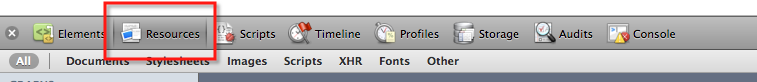
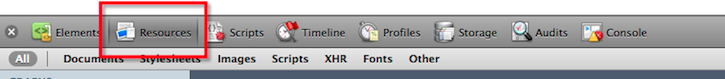
Fixes #124 Add width and height to images, resize images to 725px wide.
http://code.google.com/p/html5rocks/issues/detail?id=124

diff --git a/www.html5rocks.com/content/tutorials/developertools/part1/index.html b/www.html5rocks.com/content/tutorials/developertools/part1/index.html
@@ -45,42 +45,42 @@ If your instance of Developer Tools does not quite match the screenshots found i
   Overall, there are eight main groups of tools available view Developer Tools, and the capabilities are being extended with every release.  Chrome 5 now offers Elements, Resources, Scripts, Timeline, Profiles, Storage, Audits, and Console.
   </p>
   <h3 id="toc-overview-elements">Elements</h3>
-  <img src="/static/images/screenshots/developertools/part1/index.001.png">
+  <img src="/static/images/screenshots/developertools/part1/index.001.png" width="725" height="73">
   <p>
     The Elements tool allows you to see the web page as the browser sees it.  That is, using the Elements tool, you can see the raw HTML, raw CSS styles, the Document Object Model, and manipulate either in real time.  <a href="#toc-elements">Read more...</a>
   </p>
   <h3 id="toc-overview-resources">Resources</h3>
-  <img src="/static/images/screenshots/developertools/part1/index.002.png">
+  <img src="/static/images/screenshots/developertools/part1/index.002.png" width="725" height="79">
   <p>
     Use the Resources tool to learn what components your web page or application is requesting from web servers, how long these requests take, and how much bandwidth is required.  You can also view the HTTP request and response headers for each of your resources.  The Resources tool is perfect for helping you speed up page load times.  <a href="#toc-resources">Read more...</a>
   </p>
   <h3 id="toc-overview-scripts">Scripts</h3>
-  <img src="/static/images/screenshots/developertools/part1/index.003.png">
+  <img src="/static/images/screenshots/developertools/part1/index.003.png" width="725" height="70">
   <p>
     To peer inside the JavaScript for a page, you will use the Scripts tool.  Here you can find a list of scripts required by the page plus a full featured script debugger.  You can even change the JavaScript on the fly!  <span style="font-style: italic">Read more in Part Two, coming soon.</span>
   </p>
   <h3 id="toc-overview-timeline">Timeline</h3>
-  <img src="/static/images/screenshots/developertools/part1/index.004.png">
+  <img src="/static/images/screenshots/developertools/part1/index.004.png" width="725" height="68">
   <p>
     For advanced timing and speed analysis, the Timeline tool offers in-depth visibility into the various Chrome behind-the-scenes activities.  You can learn how long the browser takes to handle DOM events, rendering page layouts, and paint the window.  <span style="font-style: italic">Read more in Part Two, coming soon.</span>
   </p>
   <h3 id="toc-overview-profiles">Profiles</h3>
-  <img src="/static/images/screenshots/developertools/part1/index.005.png">
+  <img src="/static/images/screenshots/developertools/part1/index.005.png" width="725" height="72">
   <p>
     The Profiles tool helps you capture and analyze the performance of JavaScript scripts.  For example, you can learn which functions take the most time to execute and zero in on exactly where to optimize.   <span style="font-style: italic">Read more in Part Two, coming soon.</span>
   </p>
   <h3 id="toc-overview-storage">Storage</h3>
-  <img src="/static/images/screenshots/developertools/part1/index.006.png">
+  <img src="/static/images/screenshots/developertools/part1/index.006.png" width="725" height="73">
   <p>
     Modern web applications require more persistence than simply cookies, and the Storage tool helps you track, query, and debug local browser storage.  This tool can display and query data stored in local databases, local storage, session storage, and cookies.  <span style="font-style: italic">Read more in Part Two, coming soon.</span>
   </p>
   <h3 id="toc-overview-audit">Audit</h3>
-  <img src="/static/images/screenshots/developertools/part1/index.007.png">
+  <img src="/static/images/screenshots/developertools/part1/index.007.png" width="725" height="68">
   <p>
     The Audit tool is like having your own web optimization consultant sitting next to you.  This tool can analyze a page as it loads and provide suggestions and optimizations for decreasing page load time and increase perceived (and real) responsiveness.  <span style="font-style: italic">Read more in Part Two, coming soon.</span>
   </p>
   <h3 id="toc-overview-console">Console</h3>
-  <img src="/static/images/screenshots/developertools/part1/index.008.png">
+  <img src="/static/images/screenshots/developertools/part1/index.008.png" width="725" height="76">
   <p>
     Last but definitely not least, the Developer Tools offers a full featured Console.  From the Console, you can enter arbitrary JavaScript and programmatically interact with your page.  <span style="font-style: italic">Read more in Part Two, coming soon.</span>
   </p>
@@ -99,13 +99,13 @@ For any operating system, you can simply right-click on any element in the page 
 To see this in action, visit http://www.google.com in Chrome Browser.  Right click on the Google logo, and you will see the following options:
 </p>
 
-<img src="/static/images/screenshots/developertools/part1/index.009.png">
+<img src="/static/images/screenshots/developertools/part1/index.009.png" width="725" height="376">
 
 <p>
 Selecting "Inspect Element" will bring up the Developer Tools, which should look like the following:
 </p>
 
-<img src="/static/images/screenshots/developertools/part1/index.010.png">
+<img src="/static/images/screenshots/developertools/part1/index.010.png" width="725" height="301">
 
 <p>
 Notice how the Developer Tools opened inside of the Elements tab and automatically drilled down to, and highlighted, the &lt;img&gt; tag for the Google logo.  This is very useful when you are curious which HTML generated a particular page element.
@@ -128,13 +128,13 @@ Finally, you can choose to open the tools from the main browser menu.
 On a Mac, and from the main application menu bar, select View, Developer, Developer Tools.
 </p>
 
-<img src="/static/images/screenshots/developertools/part1/index.011.png">
+<img src="/static/images/screenshots/developertools/part1/index.011.png" width="725" height="334">
 
 <p>
 On a Windows PC, you should use the Page menu at the top right, and select Developer, Developer Tools.
 </p>
 
-<img src="/static/images/screenshots/developertools/part1/index.012.png">
+<img src="/static/images/screenshots/developertools/part1/index.012.png" width="725" height="475">
 
 <p>
 Now that you have the Developer Tools open and ready, let's begin by exploring the elements on Google's homepage.
@@ -142,7 +142,7 @@ Now that you have the Developer Tools open and ready, let's begin by exploring t
 
 <h2 id="toc-elements">Elements</h2>
 
-<img src="/static/images/screenshots/developertools/part1/index.013.png">
+<img src="/static/images/screenshots/developertools/part1/index.013.png" width="725" height="76">
 
 <p>
 The first tab in the Developer Tools is Elements.  This is your window into the structure of the web page, presented as your browser sees it.
@@ -162,7 +162,7 @@ The Elements tab is sometimes a better way to "view source" for a page.  Inside 
 For example, the following is the output from the "view source" of the Google homepage.
 </p>
 
-<img src="/static/images/screenshots/developertools/part1/index.014.png">
+<img src="/static/images/screenshots/developertools/part1/index.014.png" width="725" height="494">
 
 <p>
 It's hard to read the above source because it is optimized and minified.  The format is good for clients and servers but difficult for developers!
@@ -172,7 +172,7 @@ It's hard to read the above source because it is optimized and minified.  The fo
 Instead, when you want to read the source of a page, use the Elements Tab to view a pretty-printed, syntax highlighted element hierarchy.
 </p>
 
-<img src="/static/images/screenshots/developertools/part1/index.015.png">
+<img src="/static/images/screenshots/developertools/part1/index.015.png" width="725" height="395">
 
 <p>
 The Elements tab also allows you to browse, interact, and sometimes even change the Styles, Metrics, Properties, and Event Listeners for any element on the page.
@@ -189,7 +189,7 @@ styling rule the browser is applying to the element helps you debug such an issu
 Clicking on any element in the Elements tab will display all the styles attached to that element.
 </p>
 
-<img src="/static/images/screenshots/developertools/part1/index.016.png">
+<img src="/static/images/screenshots/developertools/part1/index.016.png" width="725" height="229">
 
 <p>
 You'll see in the screenshot above, that we're able to tell all the style attributes that are being applied.  For example, the padding comes directly from the &lt;img&gt; element's style attribute.  The width and height, however, come from their respective native attributes.  Interestingly, you can tell there are styles also inherited from the &gt;center&lt; tag, the &gt;body&lt; tag, and others.
@@ -199,7 +199,7 @@ You'll see in the screenshot above, that we're able to tell all the style attrib
 While it's great to see the individual styles and where they come from, it's also very useful to see the final set of styles after it is computed and applied to the element.  You can see the final product by selecting the Computed Style menu, as shown in the screenshot below.
 </p>
 
-<img src="/static/images/screenshots/developertools/part1/index.017.png">
+<img src="/static/images/screenshots/developertools/part1/index.017.png" width="725" height="227">
 
 <p>
 Next, we'll take a brief look at the other features provided by the Elements Tab.  We'll cover the following in more detail in future articles.
@@ -211,7 +211,7 @@ Next, we'll take a brief look at the other features provided by the Elements Tab
 You can see the box model as it is applied to the selected element by selecting the Metrics menu:
 </p>
 
-<img src="/static/images/screenshots/developertools/part1/index.018.png">
+<img src="/static/images/screenshots/developertools/part1/index.018.png" width="725" height="245">
 
 <h3 id="toc-elements-element-properties">Element Properties</h3>
 
@@ -219,7 +219,7 @@ You can see the box model as it is applied to the selected element by selecting 
 You can see all of the properties of the element, as JavaScript and the DOM would see it, by selecting the Properties menu:
 </p>
 
-<img src="/static/images/screenshots/developertools/part1/index.019.png">
+<img src="/static/images/screenshots/developertools/part1/index.019.png" width="725" height="241">
 
 <h3 id="toc-elements-event-listeners">Event Listeners</h3>
 
@@ -227,7 +227,7 @@ You can see all of the properties of the element, as JavaScript and the DOM woul
 And finally, you can even see the event listeners attached to, or that bubble through, the element via the Event Listeners menu:
 </p>
 
-<img src="/static/images/screenshots/developertools/part1/index.020.png">
+<img src="/static/images/screenshots/developertools/part1/index.020.png" width="725" height="218">
 
 <h3 id="toc-elements-summary">Summary</h3>
 
@@ -261,7 +261,7 @@ The Resources Tab in Developer Tools is your window into the communication betwe
 Ironically, running the Resources Tab affects page load performance, so it is disabled by default.  The first time you access the functionality, you will need to enable it for the page you are viewing.
 </p>
 
-<img src="/static/images/screenshots/developertools/part1/index.021.png">
+<img src="/static/images/screenshots/developertools/part1/index.021.png" width="725" height="322">
 
 <p>
 I recommend you leave the default "Only enable for this session" selected, as you do not want to needlessly incur the small performance penalty.  Once you click "Enable resource tracking", the page will reload, and the Developer Tools will monitor and display the resources sent from the server.
@@ -271,7 +271,7 @@ I recommend you leave the default "Only enable for this session" selected, as yo
 The following screenshot shows the resources required, and loaded for, the Google homepage.
 </p>
 
-<img src="/static/images/screenshots/developertools/part1/index.022.png">
+<img src="/static/images/screenshots/developertools/part1/index.022.png" width="725" height="305">
 
 <p>
 There's a lot of information on this screen, so let's take it piece by piece.
@@ -285,7 +285,7 @@ The default behavior is to show you how long it took to request and load all res
 If you are interested in just images or style sheets, you can filter the resource type using the menu directly under the main tab window.
 </p>
 
-<img src="/static/images/screenshots/developertools/part1/index.023.png">
+<img src="/static/images/screenshots/developertools/part1/index.023.png" width="725" height="251">
 
 <p>
 You'll also learn the order in which the resources are requested.  Using the timeline display, you may gain a better understanding of why certain elements on your page show up later than others.
@@ -299,7 +299,7 @@ After you gain an overview of all the requested resources, and how they compose 
 If you notice that some resources are being requested every time you access the page, that is a sign that your caching headers are not configured correctly.  You can view all of the headers for a resource by clicking on the resource in the left hand list.
 </p>
 
-<img src="/static/images/screenshots/developertools/part1/index.024.png">
+<img src="/static/images/screenshots/developertools/part1/index.024.png" width="725" height="295">
 
 <p>
 Use the Headers display to ensure the expected HTTP Response Code is set and the appropriate headers are provided.  For example, if the resource is rarely or never changed, your server should set an Expires header for far into the future.  This will tell the browser that the resource shouldn't be requested again until that date.  This reduces the amount of HTTP connections required for your page, thus speeding up your site.
